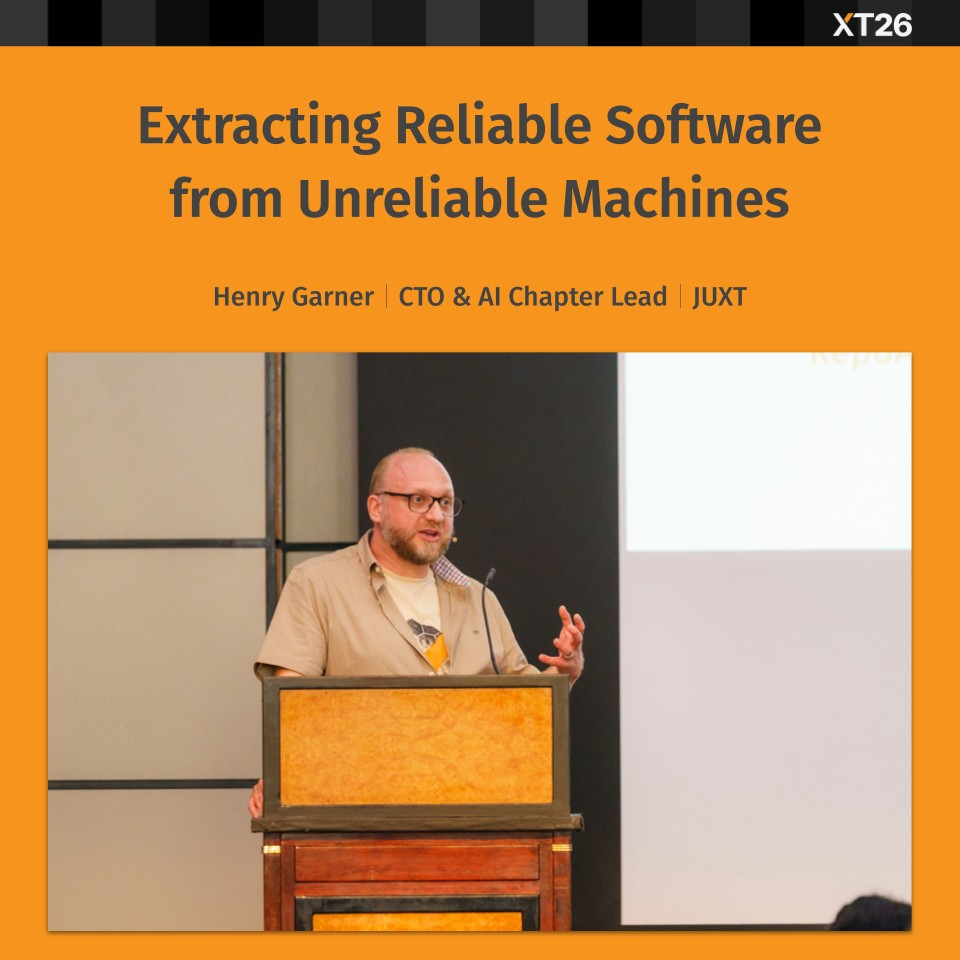
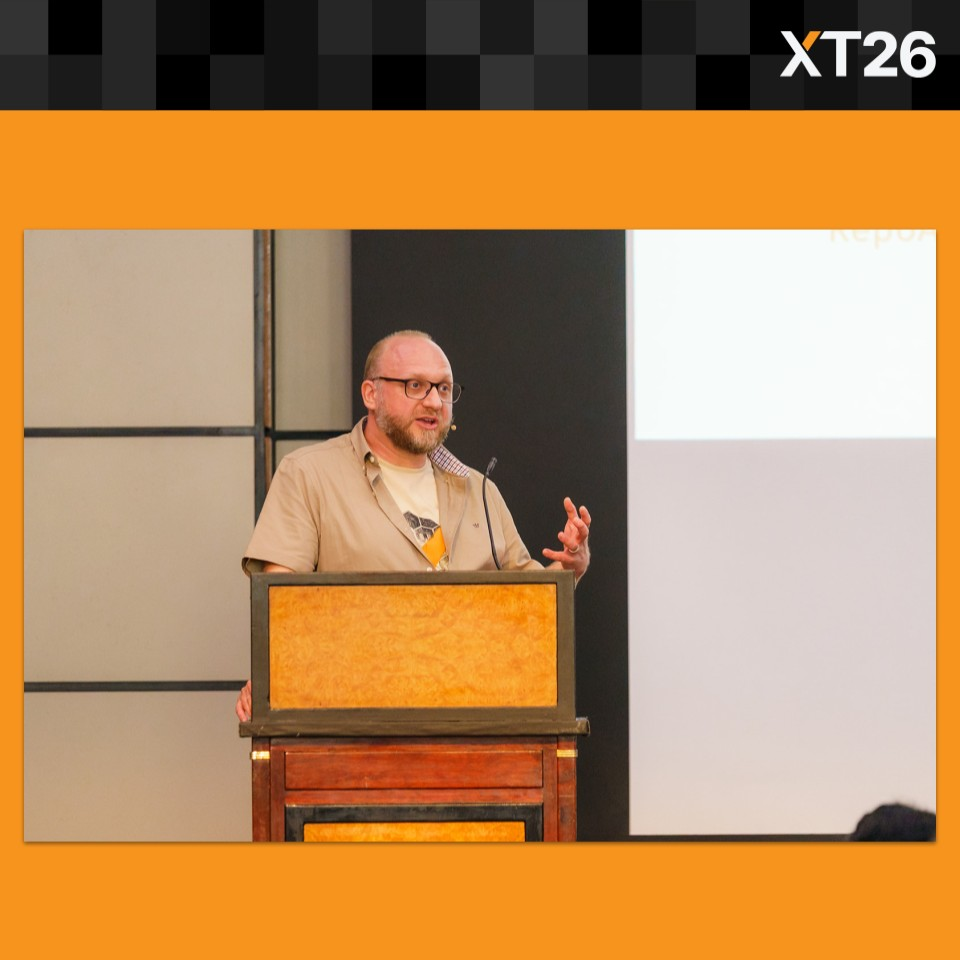
Add speaker name/affiliation to title and update hero/OG image
- Title now includes speaker name/affiliation: - Henry Garner, JUXT
- Update hero/OG image

diff --git a/src/pages/blog/xt26-henry-garner-measuring-legacy-code-with-ai.md b/src/pages/blog/xt26-henry-garner-measuring-legacy-code-with-ai.md
@@ -1,6 +1,6 @@
 ---
 author: 'ceb'
-title: 'XT26 Talks: Spectroscopy for Software: Measuring Legacy Code with AI'
+title: 'XT26 Talks: Spectroscopy for Software: Measuring Legacy Code with AI – Henry Garner, JUXT'
 description: 'The work lives before the code – JUXT CTO gives clear language to the way I’ve been building software all year: the real work happens before a line of code exists.'
 category: 'conference'
 layout: '../../layouts/BlogPost.astro'
